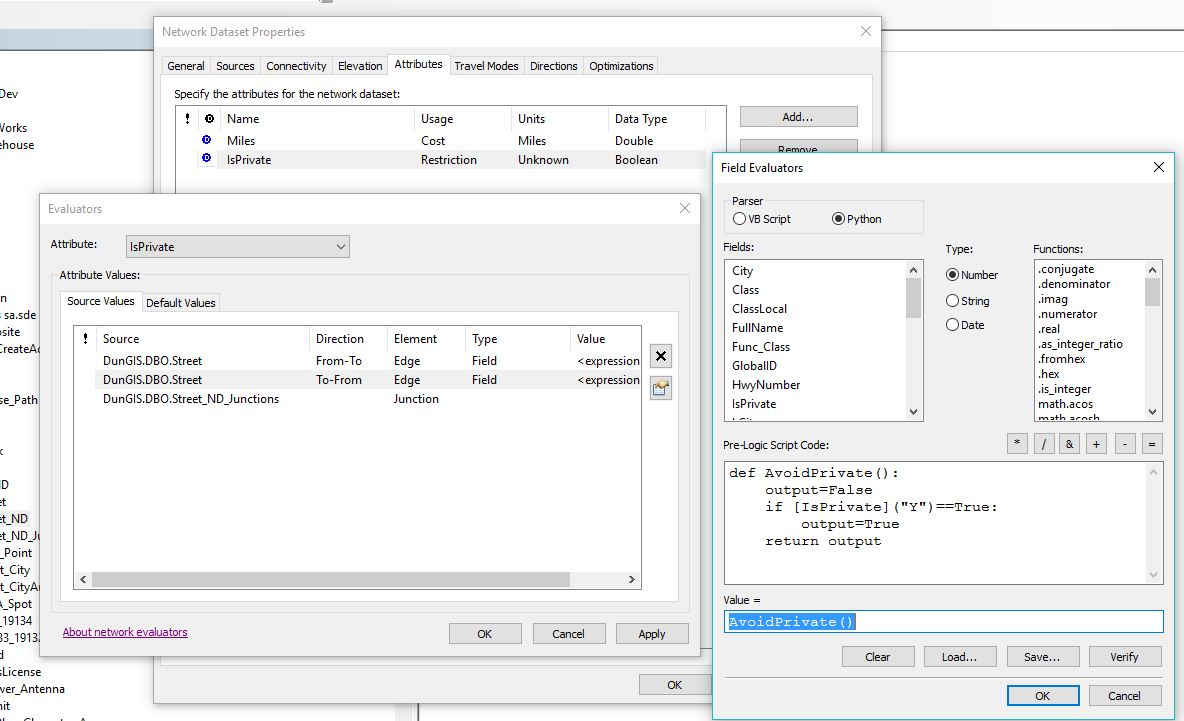
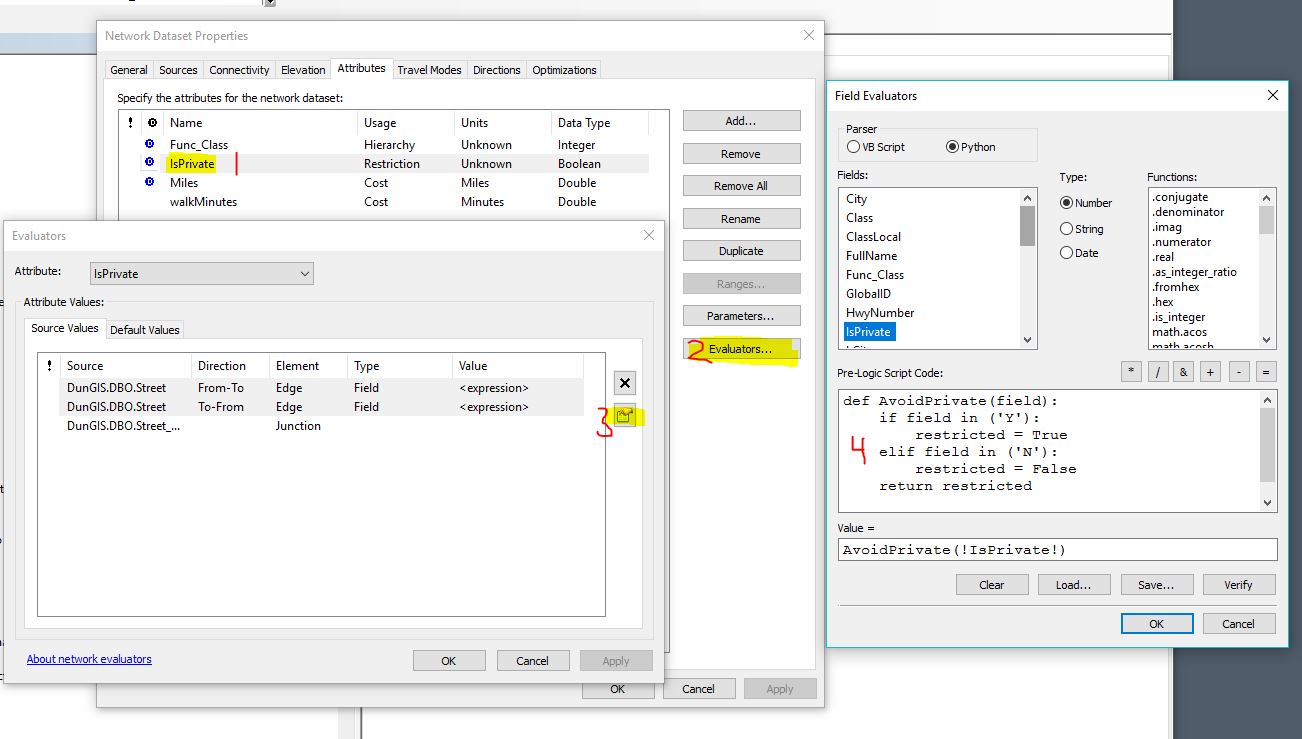
NA solve

Changed region(s): [[0.0, 0.0, 1.0, 1.0], [0.0, 0.1221, 0.0312, 0.2136]]

diff --git a/NetworkAnalysis/NA.md b/NetworkAnalysis/NA.md
@@ -6,7 +6,7 @@ streets layer
 
 ### Network Analysis Parameters
 - Calculate distance field
-- Private roads category
+- Private roads restriction
 - Walk time / drive time
 - Hierarchy Class
 
@@ -16,6 +16,7 @@ http://desktop.arcgis.com/en/arcmap/latest/extensions/network-analyst/network-an
 Good one!->http://www.gsf.ca/getattachment/50e5680c-f73d-4ba9-a5b2-7bbac131e396/ArcGIS_Desktop_Network_Analyst_White_Paper_Preparing_Street_Data.pdf.aspx<br>
 http://desktop.arcgis.com/en/arcmap/latest/extensions/network-analyst/editing-network-datasets-modifying-network-attributes.htm<br>
 http://desktop.arcgis.com/en/arcmap/latest/extensions/network-analyst/types-of-evaluators-used-by-a-network.htm<br>
+attribute restrictions -> http://support.esri.com/en/technical-article/000011889 <br>
 <br><br>
 
 #### Prep Data
@@ -44,20 +45,14 @@ Streets layer must be part of a Feature Dataset. Right click Feature Dataset > N
 Under the Attributes Tab of the Network Dataset wizard add a parameter Click Add... type the field name exactly the same as the field name. Once added click Evaluators...> In the Evaluators window change Type to Field. Click the little hand button under the "X".  Set Field Evaluator in the Code block.<br>
 Pre-Logic Script Code:
 ```
-def AvoidPrivate():
-    output=False
-    if [isPrivate]("Y")==True:
-        output=True
-    return output
+def AvoidPrivate(field):
+    if field in ('Y'):
+        restricted = True
+    elif field in ('N'):
+        restricted = False
+    return restricted
 ```
-```
-def AvoidPrivate():
-    if !IsPrivate!=='Y':
-        return True
-    else:
-        return False
-```
-Call the function in the box Value = `AvoidePrivate()`<br><br>
+Call the function in the box Value = `AvoidPrivate(!IsPrivate!)`<br><br>
 <img src="https://github.com/akell47/GIS/blob/master/NetworkAnalysis/images/AvoidPrivate.JPG"
 width="700" height="430"/><br>
 <br>
@@ -67,12 +62,28 @@ Add Func_Class, Usage Type: Hierarchy <br>
 <br>
 Under Travel Modes Tab > Travel Mode: add "walk", Type: Walk, Impedance: Miles (Miles), Time Attribute: walkMinutes (Minutes), U-Turns at Junctions: Allowed, Use Hierarchy: uncheck, Restrictions: check IsPrivate <br>
 Close ArcCatalog <br>
+
 #### Network Analysis
 
-Going to create a half-mile walking distance around Marta Bus stops, Libraries, and Parks <br>
+Going to create a half-mile walking distance around Marta Bus stops, Libraries, Parks, and Schools. <br>
+<br>
 Open ArcMap <br>
 Make sure Network Analyst extension is check marked. Customize > Extensions <br>
 From Catalog tree, drag and drop Network Dataset into the map > Click Yes for Do you also want to add all feature classes that participate in Street_ND to the map. <br>
-Open Network Analyst toolbar > Network Analyst Drop Down > Click New Service Area > Click the icon with the square and the flag. <br>
+Open Network Analyst toolbar > Network Analyst Drop Down > Click New Service Area > Click the icon with the square and the flag to open the Network Analyst window. <br>
 Before you Load Locations, Click the little square button in the upper right corner of the Network Analyst window to open the Layer Properties window.  Under the Network Locations tab set the Name Property so when you Load Locations they will have names that make sense. Under Candidate Fields type the field name you want to label the locations with. <br>
+<img src="https://github.com/akell47/GIS/blob/master/NetworkAnalysis/images/LocationNames.JPG"
+width="600" height="470"/><br>
+<br>
 Load Facilities for Service Area > Right Click Facilities (0) > Load Locations> Load From: Select Layer The name should show up under Field.  <br>
+Add additional locations with the little flag icon with the little + sign. <br>
+Set the Analysis Settings as desired.
+<img src="https://github.com/akell47/GIS/blob/master/NetworkAnalysis/images/AnalysisSettings.JPG"
+width="530" height="420"/><br>
+<br>
+Set the settings for Lines and or Polygon Generation. I want to create lines instead of the default polygons for the Service Area. <br>
+<br>
+<b>Now you can click the solve button!</b> in the Network Analyst toolbar.<br>
+<br>
+<img src="https://github.com/akell47/GIS/blob/master/NetworkAnalysis/images/NA_solvef.JPG"
+width="1400" height="660"/><br>
